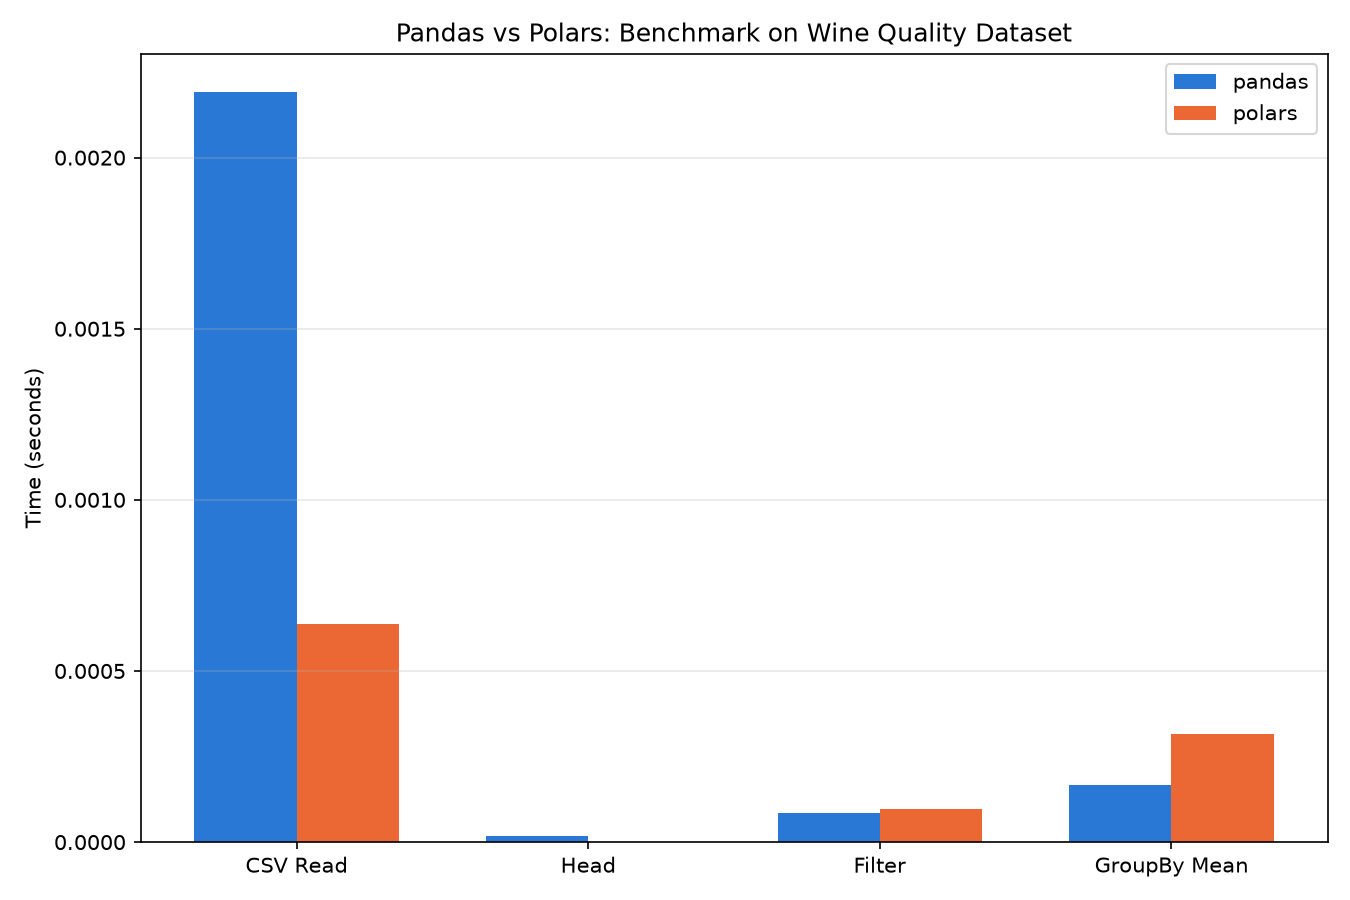
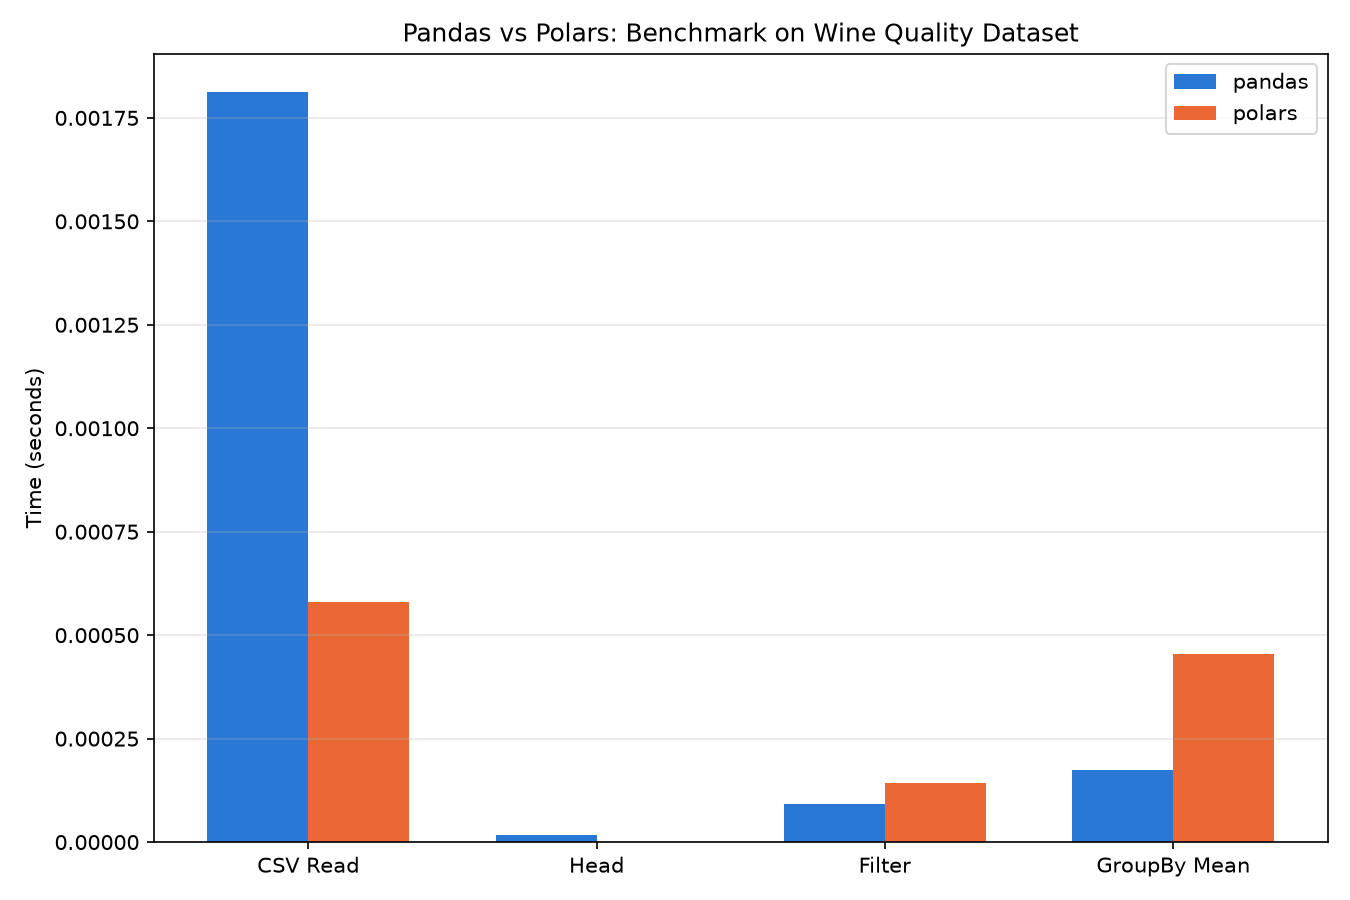
fixed code according to grading rubric

diff --git a/analysis.py b/analysis.py
@@ -18,6 +18,7 @@ print(wine["type"].value_counts())
 print(" " " ")
 
 # Step 2: Inspecting the data
+print(f"Shape (rows, columns): {wine.shape}")
 print(wine.head())
 wine.info()
 print(wine.describe())

diff --git a/analysis_polars.py b/analysis_polars.py
@@ -27,6 +27,7 @@ print(type_counts)
 print(" " " ")
 
 # Step 2: Inspecting the data
+print(f"Shape (rows, columns): {wine.shape}")
 show(wine.head())
 
 info_pd = pd.DataFrame(

diff --git a/README.md b/README.md
@@ -165,10 +165,11 @@ print(wine["type"].value_counts())
 **What this step does:** 
 
 Looks at the data's structure and health before doing any
-real analysis. What the columns look like, what type of data each holds, and whether
-anything is missing or duplicated.
+real analysis. Its shape, what the columns look like, what type of data each holds, and
+whether anything is missing or duplicated.
 
 ```python
+print(f"Shape (rows, columns): {wine.shape}")
 print(wine.head())
 wine.info()
 print(wine.describe())
@@ -179,6 +180,7 @@ print(f"Duplicate rows: {wine.duplicated().sum()}")
 
 **What we found:** 
 
+*`wine.shape` confirms the dataset is 6,497 rows by 13 columns.*
 *No column has any missing values. Every one of the 13 columns shows 0 missing across all 6,497 rows.*
 *There are, however, 1,177 exact duplicate rows (about 18% of the dataset), rows that repeat another row's values identically.* 
 *.describe() shows that most chemical measurements are fairly tight (e.g. alcohol ranges from 8.0% to 14.9%, averaging 10.49%), but residual sugar is heavily skewed: its 75th percentile is 8.1 but its maximum is 65.8, meaning a small number of unusually sweet wines pull the average up.*
